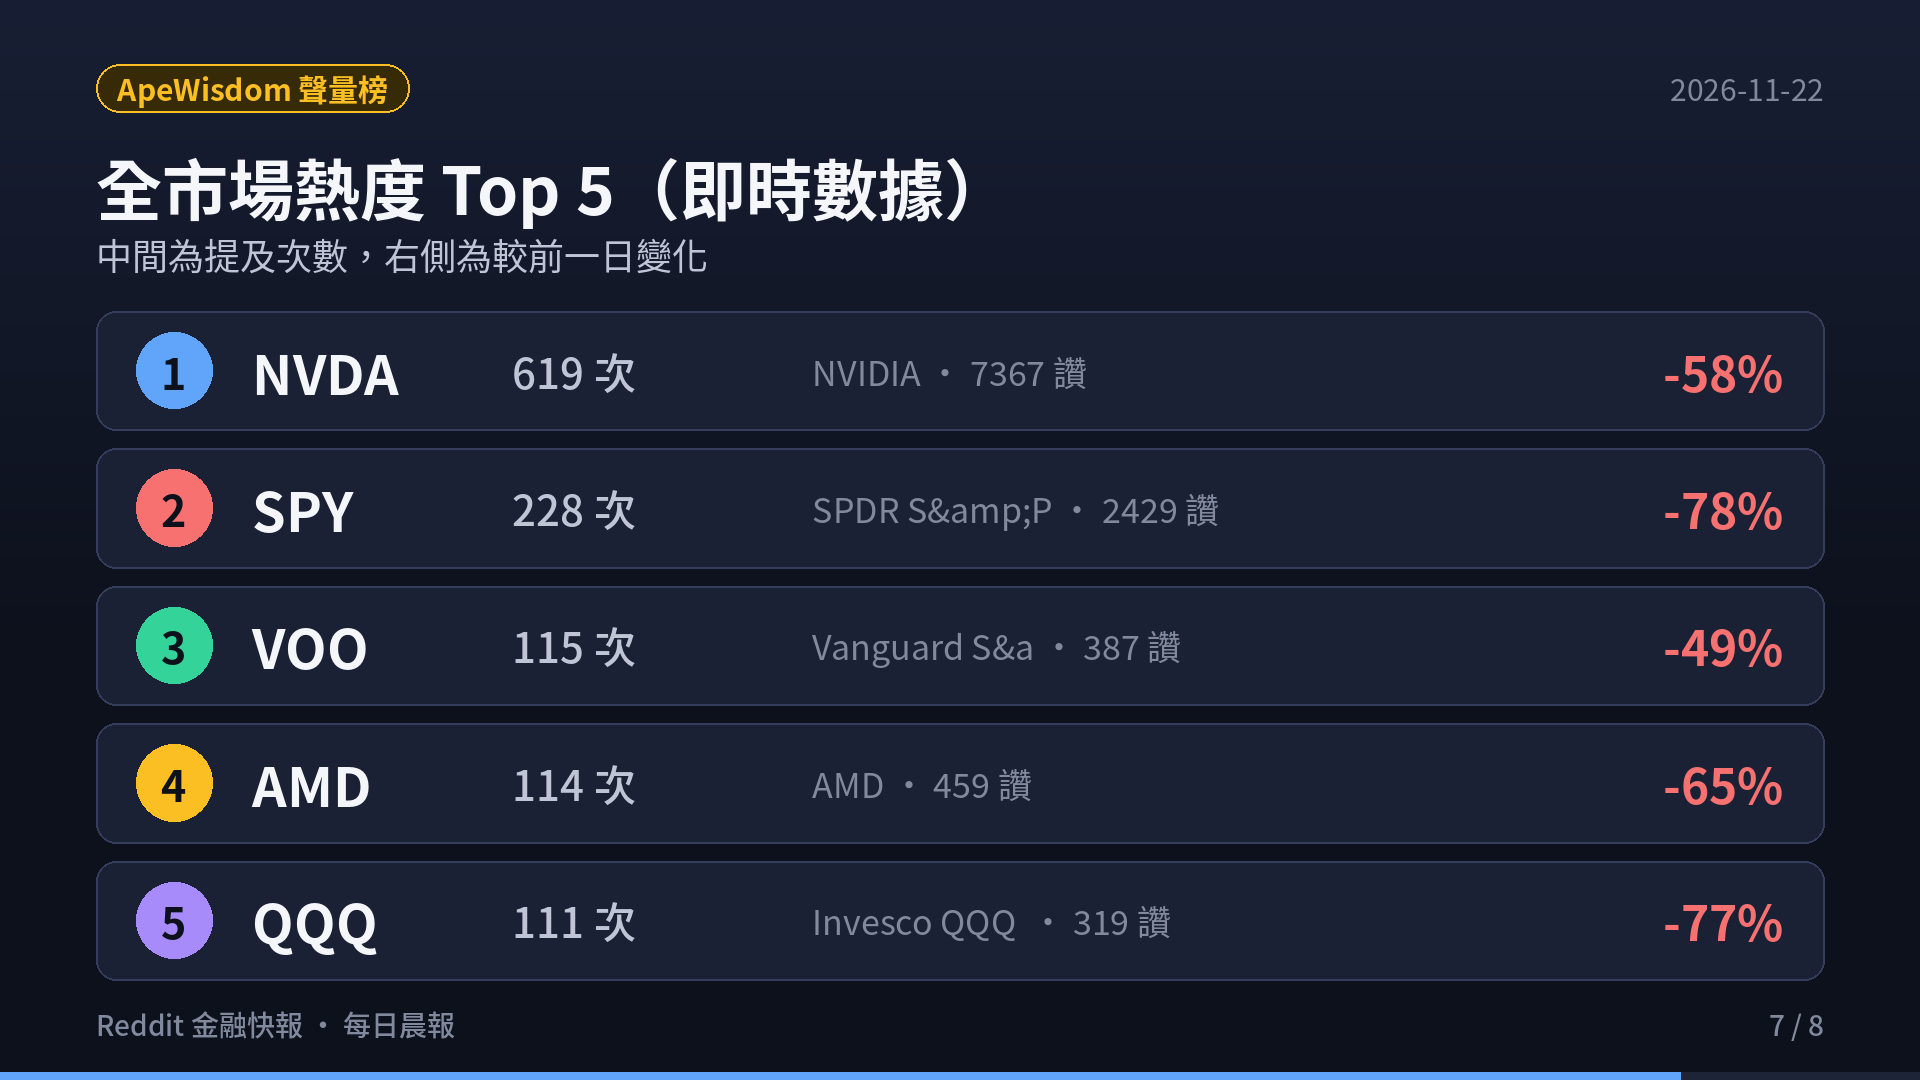
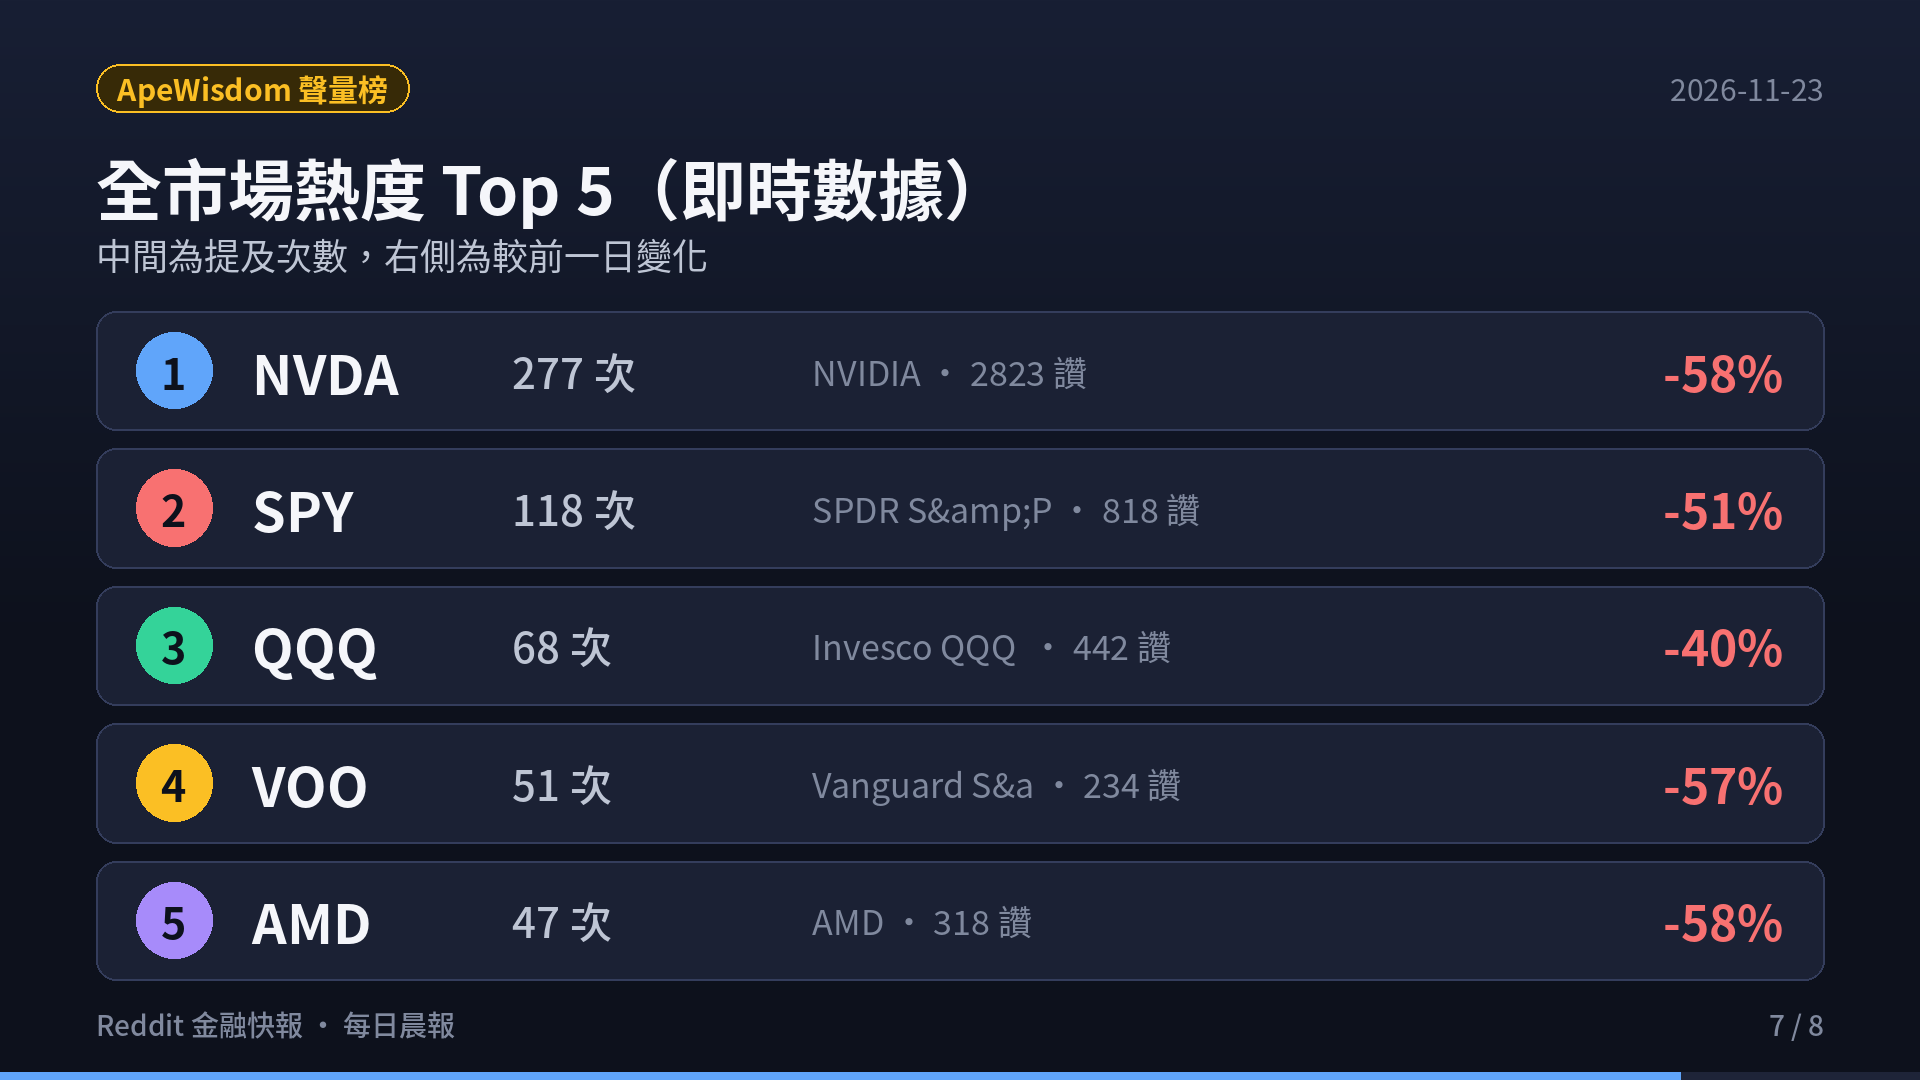
feat(blog): add Reddit finance daily report 2026-11-23 with slides and video

diff --git a/content/blog/2026-11-23-reddit-finance-daily/index.md b/content/blog/2026-11-23-reddit-finance-daily/index.md
@@ -1,0 +1,59 @@
+---
+title: "Reddit 金融快報 · 2026-11-23：美股五大核心板塊最新精華與聲量榜"
+date: 2026-11-23T06:00:00+08:00
+draft: false
+image: cover.png
+cover: "https://ckw19810413.github.io/blog/2026-11-23-reddit-finance-daily/cover.png"
+description: "Reddit 美股五大核心板塊近 3 日熱門話題 Top 3 與 ApeWisdom 即時熱度監控。"
+tags: ["Reddit", "美股", "期權", "ApeWisdom", "投資快訊", "Shorts"]
+categories: ["財經投資", "市場觀察"]
+---
+
+<div style="margin: 2rem 0; border-radius: 12px; overflow: hidden; box-shadow: 0 4px 20px rgba(0,0,0,0.12); border: 1px solid rgba(128,128,128,0.2);">
+  <video controls width="100%" poster="s01.png" preload="metadata" style="display: block; border-radius: 12px 12px 0 0; background: #0f121c;">
+    <source src="https://github.com/ckw19810413/ckw19810413.github.io/releases/download/media-reddit-finance-daily/reddit-finance-2026-11-23.mp4" type="video/mp4">
+    您的瀏覽器不支援直接播放 MP4 影片。
+  </video>
+  <div style="background: rgba(0,0,0,0.03); padding: 10px 16px; font-size: 0.9rem; color: var(--card-text-color-secondary, #666); text-align: center; border-top: 1px solid rgba(128,128,128,0.15);">
+    🎬 <strong>60 秒晨間快報影音動態版</strong>（含 AI 摘要朗讀語音與專屬背景音樂）
+  </div>
+</div>
+
+# 每日 6:00AM Reddit 金融財經板塊最新資訊彙整報告（2026-11-23）
+
+本報告完成對五大核心財經看板（**r/wallstreetbets**、**r/stocks**、**r/investing**、**r/options**、**r/StockMarket**）近 3 日熱門話題、社群情緒、量化聲量與衍生品異動之全面監控。
+
+> **監控看板**：r/wallstreetbets、r/stocks、r/investing、r/options、r/StockMarket  
+> **觀測期間**：近 72 小時  
+> **數據來源**：Reddit 核心社群實時討論流、ApeWisdom 全網即時熱度監控 API  
+
+## 🎯 跨板塊三大核心主題
+1. **超微（AMD）Q3 財報噴出突破，資料中心翻倍帶動晶片股多頭大軋空**
+2. **科技巨頭千億 AI 資本開支（CapEx）進入實質檢驗期，資金轉向防禦與現金**
+3. **上游半導體定價權依舊穩固，英特爾（INTC）多空末日期權對決白熱化**
+
+## 📊 五大核心板塊近 3 日最熱話題 Top 3
+### 1. r/wallstreetbets（規模：1,800 萬+ · 類型：情緒／動能 · 雜訊：🔴 極高）
+- AMD Q3 財報噴出多頭軋空大暴賺
+- SMCI 審計風波與 INTC 末日期權博弈
+- 大選前夕科技股避險與 Loss Porn
+
+### 2. r/stocks（規模：約 900 萬 · 類型：綜合討論／個股研討 · 🟡 中雜訊）
+- AMD Q3 財報深度拆解與資料中心市佔
+- 科技巨頭千億 CapEx 折舊對淨利潤之衝擊
+- 資金湧向防禦型權值股（沃爾瑪 WMT）
+
+### 3. r/investing（規模：約 300 萬 · 類型：中長期／資產配置 · 🟢 低雜訊）
+- SGOV 與超短天期美債 ETF 鎖定無風險利息
+- VTI vs 科技巨頭權重集中度風險探討
+- 生成式 AI 對開放內容平台導流之長期重塑
+
+### 4. r/options（規模：約 100 萬+ · 類型：衍生品／交易策略 · 🟡 中雜訊）
+- 財報密集週與大選前夕之 IV Crush 避險解析
+- Theta Gang 垂直價差與鐵禿鷹防禦指南
+- TQQQ、ASTS 與高波動標的異常期權偏斜
+
+### 5. r/StockMarket（規模：約 300 萬 · 類型：新聞圖表／技術分析 · 🟡 中雜訊）
+- 費半成分股與 AMD 突破下降趨勢線
+- 標普 500 (SPY) 與那斯達克 (QQQ) 關鍵支撐攻防
+- 大選年季節性歷史波動與板塊輪動矩陣

diff --git a/content/reddit-daily-summaries/index.md b/content/reddit-daily-summaries/index.md
@@ -1,13 +1,13 @@
 ---
-title: "Reddit 金融快報 · 2026-11-22：美股五大核心板塊最新精華與聲量榜"
-date: 2026-11-22T06:00:00+08:00
+title: "Reddit 金融快報 · 2026-11-23：美股五大核心板塊最新精華與聲量榜"
+date: 2026-11-23T06:00:00+08:00
 draft: false
 image: cover.png
 cover: "https://ckw19810413.github.io/reddit-daily-summaries/cover.png"
 url: "/reddit-daily-summaries/"
 aliases:
-  - "/blog/2026-11-22-reddit-finance-daily/"
-  - "/reddit-daily-summaries/2026-11-22/"
+  - "/blog/2026-11-23-reddit-finance-daily/"
+  - "/reddit-daily-summaries/2026-11-23/"
 description: "Reddit 美股五大核心板塊近 3 日熱門話題 Top 3 與 ApeWisdom 即時熱度監控。"
 tags: ["Reddit", "美股", "期權", "ApeWisdom", "投資快訊", "Shorts"]
 categories: ["財經投資", "市場觀察"]
@@ -15,7 +15,7 @@ categories: ["財經投資", "市場觀察"]
 
 <div style="margin: 2rem 0; border-radius: 12px; overflow: hidden; box-shadow: 0 4px 20px rgba(0,0,0,0.12); border: 1px solid rgba(128,128,128,0.2);">
   <video controls width="100%" poster="s01.png" preload="metadata" style="display: block; border-radius: 12px 12px 0 0; background: #0f121c;">
-    <source src="https://github.com/ckw19810413/ckw19810413.github.io/releases/download/media-reddit-finance-daily/reddit-finance-2026-11-22.mp4" type="video/mp4">
+    <source src="https://github.com/ckw19810413/ckw19810413.github.io/releases/download/media-reddit-finance-daily/reddit-finance-2026-11-23.mp4" type="video/mp4">
     您的瀏覽器不支援直接播放 MP4 影片。
   </video>
   <div style="background: rgba(0,0,0,0.03); padding: 10px 16px; font-size: 0.9rem; color: var(--card-text-color-secondary, #666); text-align: center; border-top: 1px solid rgba(128,128,128,0.15);">
@@ -23,7 +23,7 @@ categories: ["財經投資", "市場觀察"]
   </div>
 </div>
 
-# 每日 6:00AM Reddit 金融財經板塊最新資訊彙整報告（2026-11-22）
+# 每日 6:00AM Reddit 金融財經板塊最新資訊彙整報告（2026-11-23）
 
 本報告完成對五大核心財經看板（**r/wallstreetbets**、**r/stocks**、**r/investing**、**r/options**、**r/StockMarket**）近 3 日熱門話題、社群情緒、量化聲量與衍生品異動之全面監控。
 
